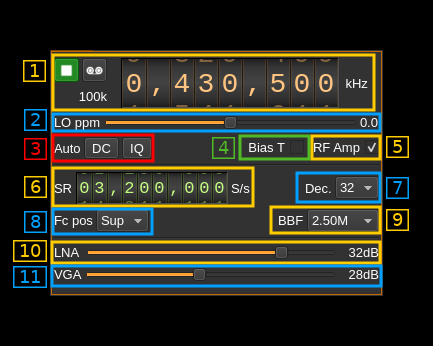
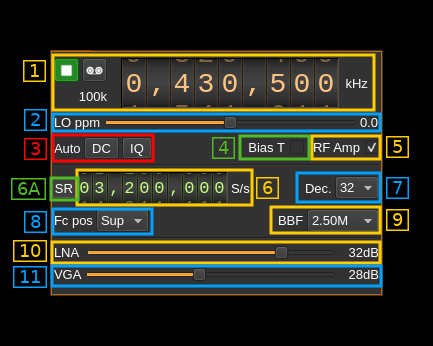
HackRF: updated documentation

Changed region(s): [[0.0, 0.4624, 0.6605, 0.6069]]

diff --git a/plugins/samplesink/hackrfoutput/readme.md b/plugins/samplesink/hackrfoutput/readme.md
@@ -20,9 +20,11 @@ If you have the Rx open in another tab and it is running then it will be stopped
 
 The settings on Tx or Rx tab are reapplied on start so these settings can be considered independent.
 
-<h3>2: Baseband sample rate</h3>
+<h3>2: Stream sample rate</h3>
 
-This is the baseband sample rate in kS/s before interpolation (5) to produce the final stream that is sent to the HackRF device. Thus this is the device sample rate (8) divided by the interpolation factor (5).
+In host to device sample rate input mode (8A) this is the baseband I/Q sample rate in kS/s. This is the host to device sample rate (8) divided by the interpolation factor (10).
+
+In baseband sample rate input mode (8A) this is the host to device sample rate in kS/s. This is the baseband sample rate (8) multiplied by the software interpolation factor (10)
 
 Transmission latency depends essentially in the delay in the sample FIFO. The size of sample FIFO is calculated to give a fixed delay of 250 ms or 150000 samples whichever is bigger. Below is the delay in seconds vs baseband sample rate in kS/s from 48 to 800 kS/s. The 250 ms delay is reached at 600 kS/s:
 
@@ -55,9 +57,18 @@ According to HackRF documentation the output power when the PA is engaged and th
   - 2750 MHz to 4000 MHz: 0 dBm to 5 dBm, increasing as frequency decreases
   - 4000 MHz to 6000 MHz: -10 dBm to 0 dBm, generally increasing as frequency decreases
 
-<h3>8: Device sample rate</h3>
+<h3>8A: Host to device sample rate / Baseband sample rate input toggle</h3>
 
-This is the HackRF device DAC sample rate in S/s.
+Use this toggle button to switch the sample rate input next (8) between host to device sample rate and baseband sample rate input. The button shows the current mode:
+
+  - **SR**: host to device sample rate input mode. The baseband sample rate (2) is the host to device sample rate (8) divided by the interpolation factor (10).
+  - **BB**: baseband sample rate input mode. The host to device sample rate (2) is the baseband sample rate (8) multiplied by the interpolation factor (10).
+
+<h3>8: Sample rate</h3>
+
+This is the HackRF device DAC sample rate or baseband sample rate in samples per second (S/s). The control (8A) is used to switch between the two input modes. The device to/from host stream sample rate is the same for the Rx and Tx systems.
+
+The limits are adjusted automatically. In baseband input mode the limits are driven by the interpolation factor (10). You may need to increase this interpolation factor to be able to reach lower values.
 
 Use the wheels to adjust the sample rate. Left click on a digit sets the cursor position at this digit. Right click on a digit sets all digits on the right to zero. This effectively floors value at the digit position. Wheels are moved with the mousewheel while pointing at the wheel or by selecting the wheel with the left mouse click and using the keyboard arrows. Pressing shift simultaneously moves digit by 5 and pressing control moves it by 2.
 

diff --git a/plugins/samplesource/hackrfinput/readme.md b/plugins/samplesource/hackrfinput/readme.md
@@ -32,9 +32,11 @@ The settings on Rx or Tx tab are reapplied on start so these settings can be con
 
 Record baseband I/Q stream toggle button
 
-<h4>1.4: Baseband sample rate</h4>
+<h4>1.4: Stream sample rate</h4>
 
-Baseband I/Q sample rate in kS/s. This is the device sample rate (4) divided by the decimation factor (6).
+In device to host sample rate input mode (6A) this is the baseband I/Q sample rate in kS/s. This is the device to host sample rate (6) divided by the decimation factor (7).
+
+In baseband sample rate input mode (6A) this is the device to host sample rate in kS/s. This is the baseband sample rate (6) multiplied by the decimation factor (7)
 
 <h3>2: Local Oscillator correction</h3>
 
@@ -55,9 +57,18 @@ Use this checkbox to toggle the +5V power supply on the antenna connector.
 
 Use this checkbox to toggle the extra low noise amplifier (LNA). This gives an additional gain of 14 dB.
 
-<h3>6: Device sample rate</h3>
+<h3>6A: Device sample rate / Baseband sample rate input toggle</h3>
 
-This is the HackRF device ADC sample rate in S/s.
+Use this toggle button to switch the sample rate input next (6) between device sample rate and baseband sample rate input. The button shows the current mode:
+
+  - **SR**: device sample rate input mode. The baseband sample rate (1.4) is the device sample rate (6) divided by the decimation factor (7).
+  - **BB**: baseband sample rate input mode. The device sample rate (1.4) is the baseband sample rate (6) multiplied by the decimation factor (7).
+
+<h3>6: Sample rate</h3>
+
+This is the HackRF device ADC sample rate or baseband sample rate in samples per second (S/s). The control (6A) is used to switch between the two input modes.
+
+The limits are adjusted automatically. In baseband input mode the limits are driven by the decimation factor (7). You may need to increase this decimation factor to be able to reach lower values.
 
 Use the wheels to adjust the sample rate. Left click on a digit sets the cursor position at this digit. Right click on a digit sets all digits on the right to zero. This effectively floors value at the digit position. Wheels are moved with the mousewheel while pointing at the wheel or by selecting the wheel with the left mouse click and using the keyboard arrows. Pressing shift simultaneously moves digit by 5 and pressing control moves it by 2.
 

diff --git a/plugins/samplesource/bladerf2input/readme.md b/plugins/samplesource/bladerf2input/readme.md
@@ -96,9 +96,9 @@ Use this toggle button to switch the sample rate input next (6) between device s
 
 <h3>6: Sample rate</h3>
 
-This is the BladeRF device ADC sample rate or baseband sample rate in samples per second (S/s). The control (4A) is used to switch between the two input modes.
+This is the BladeRF device ADC sample rate or baseband sample rate in samples per second (S/s). The control (6A) is used to switch between the two input modes.
 
-The limits are adjusted automatically. In baseband input mode the limits are driven by the decimation factor (5). You may need to increase this decimation factor to be able to reach lower values.
+The limits are adjusted automatically. In baseband input mode the limits are driven by the decimation factor (8). You may need to increase this decimation factor to be able to reach lower values.
 
 Use the wheels to adjust the sample rate. Left click on a digit sets the cursor position at this digit. Right click on a digit sets all digits on the right to zero. This effectively floors value at the digit position. Wheels are moved with the mousewheel while pointing at the wheel or by selecting the wheel with the left mouse click and using the keyboard arrows. Pressing shift simultaneously moves digit by 5 and pressing control moves it by 2.
 

diff --git a/plugins/samplesink/bladerf1output/readme.md b/plugins/samplesink/bladerf1output/readme.md
@@ -88,7 +88,7 @@ Use this toggle button to switch the sample rate input next (6) between host to 
 
 <h3>6: Sample rate</h3>
 
-This is the BladeRF device DAC sample rate sample rate or baseband sample rate in samples per second (S/s). The control (6A) is used to switch between the two input modes. The device to/from host stream sample rate is the same for the Rx and Tx systems.
+This is the BladeRF device DAC sample rate or baseband sample rate in samples per second (S/s). The control (6A) is used to switch between the two input modes. The device to/from host stream sample rate is the same for the Rx and Tx systems.
 
 The limits are adjusted automatically. In baseband input mode the limits are driven by the interpolation factor (7). You may need to increase this interpolation factor to be able to reach lower values.
 

diff --git a/plugins/samplesink/bladerf2output/readme.md b/plugins/samplesink/bladerf2output/readme.md
@@ -91,7 +91,7 @@ Use this toggle button to switch the sample rate input next (7) between host to 
 
 <h3>7: Sample rate</h3>
 
-This is the BladeRF device DAC sample rate sample rate or baseband sample rate in samples per second (S/s). The control (7A) is used to switch between the two input modes. The device to/from host stream sample rate is the same for the Rx and Tx systems.
+This is the BladeRF device DAC sample rate or baseband sample rate in samples per second (S/s). The control (7A) is used to switch between the two input modes. The device to/from host stream sample rate is the same for the Rx and Tx systems.
 
 The limits are adjusted automatically. In baseband input mode the limits are driven by the interpolation factor (8). You may need to increase this interpolation factor to be able to reach lower values.
 
